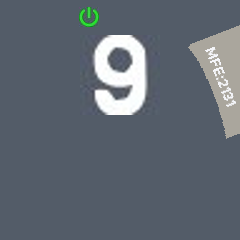
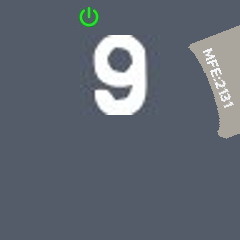
finish curve

Changed region(s): [[0.8458, 0.175, 0.9917, 0.5833], [0.7875, 0.2042, 0.8167, 0.2333]]

diff --git a/src/pw_supply.py b/src/pw_supply.py
@@ -7,7 +7,7 @@ class PowerSupply:
         self.voltage = voltage
         self.config = conf
         font_directory = '/home/user-null/Documents/station_lcd/Font/'
-        self.voltage_font = ImageFont.truetype(font_directory + 'bold.otf' , size=20)
+        self.voltage_font = ImageFont.truetype(font_directory + 'bold.otf' , size=16)
     def power_supply(self):
         # power_image = Image.open('template/picture/Powers/power-supply.jpg')
         # self.config.image.paste(power_image , (55,60))

diff --git a/src/error.py b/src/error.py
@@ -22,14 +22,14 @@ class Error:
         temp_draw.pieslice(
             [
                 (20,160),
-                (130,180)
+                (110,180)
             ],
             start=180,
             end=360,
             fill='#535c68'
         )
         temp_draw.text(
-            (30,140),
+            (30,143),
             text='MFE:2131',
             fill='#f5f6fa',
             font=self.error_font
